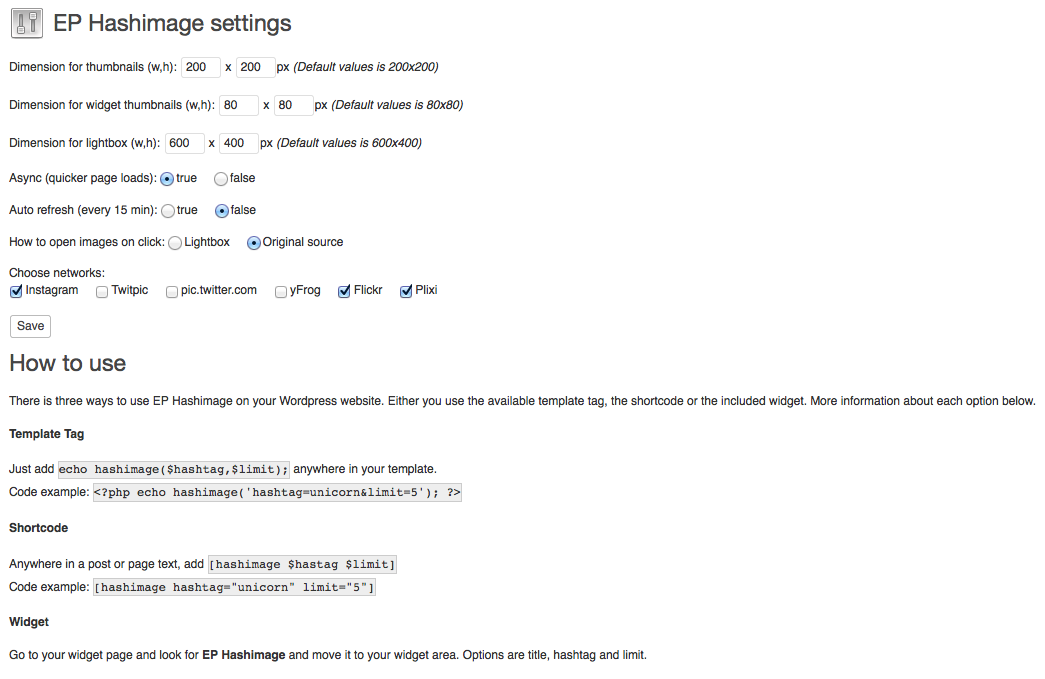
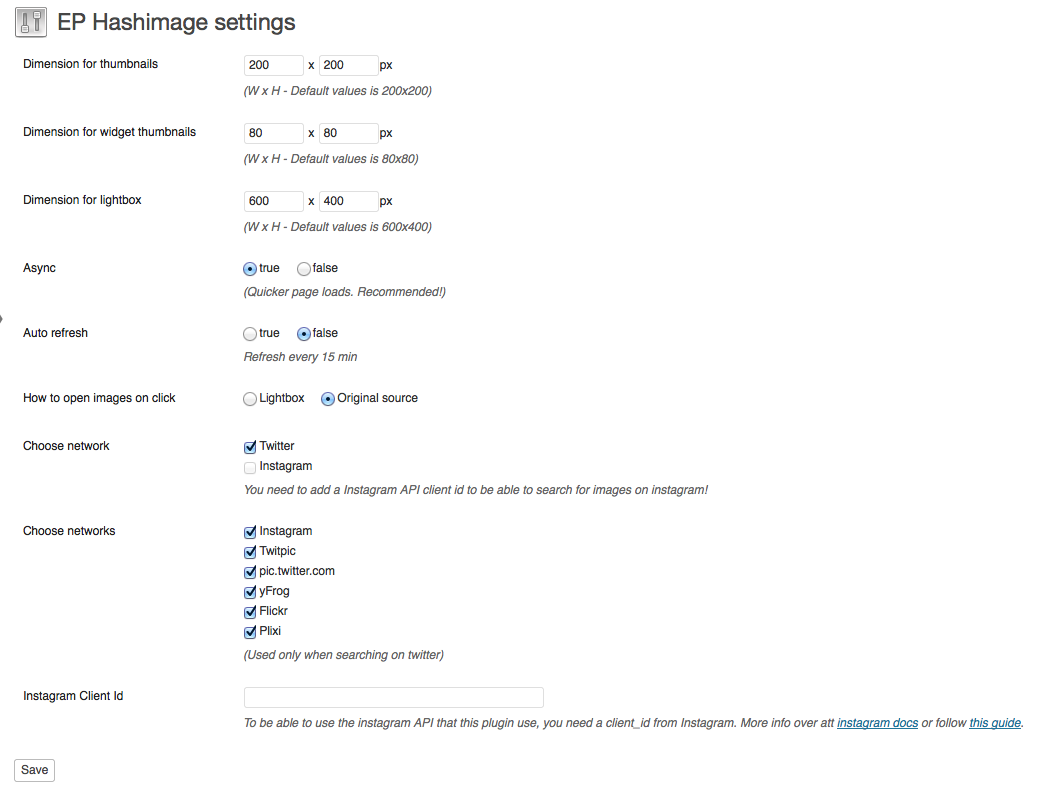
ready for first beta 01 release

diff --git a/hashimage.php b/hashimage.php
@@ -4,7 +4,7 @@ Plugin Name: EP Hashimage
 Plugin URI: http://darkwhispering.com/wordpress-plugins
 Description: Display image by hashtag from twitter or instagram in your template, post/page or widget area using template tag, shortcode or the widget.
 Author: Mattias Hedman & Peder Fjällström
-Version: 4.0.0
+Version: 4.0.0b01
 Author URI: http://darkwhispering.com http://earthpeople.se
 */
 
@@ -40,7 +40,7 @@ if (!$_GET['asyncload']) {
         add_option('ep_hashimage_networks',$default_networks);
 
         // Plugin version
-        add_option('ep_hashimage_plugin_version','4.0.0');
+        update_option('ep_hashimage_plugin_version','4.0.0b01');
     }
     add_action('init','plugin_init',10);
 }
@@ -142,8 +142,8 @@ class Hashimage {
         if (isset($instagramjson) && isset($instagramjson->data)) {
             foreach ($instagramjson->data as $result) {
                 if (!empty($result->link) && !empty($result->images->standard_resolution->url)) {
-                    $images[md5($result->id)]['img'] = $result->images->standard_resolution->url;
-                    $images[md5($result->id)]['source'] = $result->link;
+                    $images[md5($result->images->standard_resolution->url)]['img'] = $result->images->standard_resolution->url;
+                    $images[md5($result->images->standard_resolution->url)]['source'] = $result->link;
                 }
             }
         }
@@ -180,11 +180,10 @@ class Hashimage {
     * Fetch the url
     **/
     private function _fetchurl($url = null, $ttl = 86400){
-        if ($url)
-        {
+        if ($url) {
             $option_name = 'hashimage_cache_'.md5($url);
 
-            // if (false === ($data = get_transient($option_name))) {
+            if (false === ($data = get_site_transient($option_name))) {
                 $ch = curl_init();
                 $options = array(
                     CURLOPT_URL => $url,
@@ -197,9 +196,9 @@ class Hashimage {
                 $http_code = curl_getinfo($ch, CURLINFO_HTTP_CODE);
                 curl_close($ch);
                 if($http_code === 200){
-                    // set_transient($option_name, $data, $ttl);
+                    set_site_transient($option_name, $data, $ttl);
                 }
-            // }
+            }
 
             return $data['chunk'];
         }

diff --git a/settings.php b/settings.php
@@ -134,7 +134,7 @@ class epHashimageSettings {
                             </th>
                             <td>
                                 <input type="text" name="ep_hashimage_instagram_client_id" value="<?php echo !empty($settings['instagram_client_id']) ? $settings['instagram_client_id'] : ''; ?>" class="regular-text">
-                                <p class="description">To be able to use the instagram API that this plugin use, you need a client_id from Instagram. More info over att <a href="http://instagram.com/developer/">instagram docs</a> or follow <a href="#">this guide</a>.</p>
+                                <p class="description">To be able to use the instagram API that this plugin use, you need a client_id from Instagram. More info over att <a href="http://instagram.com/developer/">instagram docs</a> or follow <a href="http://darkwhispering.com/wp-plugins/ep-hashimage/get-a-instagram-client_id-key">this guide</a>.</p>
                             </td>
                         </tr>
                         <tr valign="top">
@@ -151,7 +151,7 @@ class epHashimageSettings {
                 <input type="submit" name="submit" value="Save" />
             </form>
                 
-            <p>For help, documentations and examples on how to use EP Hashimage. <a href="#">Visit the documentations</a></p>
+            <!-- <p>For help, documentations and examples on how to use EP Hashimage. <a href="">Visit the documentations</a></p> -->
 
             <?php /*
             <h2>How to use</h2>
@@ -184,9 +184,3 @@ function hashimage_menu() {
     add_submenu_page('options-general.php', 'EP Hashimage Settings', 'EP Hashimage', 'manage_options', 'ep-hashimage', 'ep_hashimage_settings');
 }
 add_action('admin_menu','hashimage_menu');
-
-// function hashimage_admin_css() {
-//     wp_register_style('hashimage_css', plugins_url('css/admin.css', __FILE__));
-//     wp_enqueue_style('hashimage_css');
-// }
-// add_action('admin_init','hashimage_admin_css');
